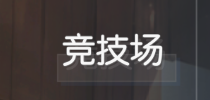
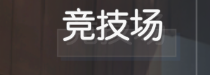
竞技场入口模板躲开活动 EVENT 标；顺带修大厅故事入口的背景
2026-10-15 17:47/17:55 每日任务竞技场 ✗，报「页面[大厅]缺少导航锚点
lobby_arena」。根因：游戏当天给大厅入口挂了蓝色 EVENT 标，正好压在
lobby_arena 模板框的上部（模板内 y 3~21 是标、y 33~63 是字形、y 52~83 是
底纹），分数从 1.0000 掉到 0.7187（阈 0.82）。

改法：lobby_arena.png 由 210x100 重裁为 210x75（全宽，只去掉上部 25 行）。
挂标帧 0.7187 -> 0.9927、lobby_animated_updated 0.8506 -> 0.8483（两个场景
都过阈）、退出弹窗帧 0.2162；全库 248 张过阈 12 -> 14（多出来的正是那两张
挂标帧），无新增误命中。
注意：试过裁成纯字形 (62,28,106,36)，挂标帧能到 0.9995，但会让
lobby_animated_updated 掉到 0.7816 不过阈（该帧被 test_navigation /
test_arena_resume / test_story_resume 多处引用）⇒ 不采用。
「只截文字」不总是最优：还得留下足够的识别结构。

顺带修同类地雷 lobby_story.png：它是 observe() 判大厅的必需锚点（阈 0.80），
却把整片公告板背景框了进去，最差帧只有 0.8152（余量仅 0.015）。重裁为
310x60（去上 50 行背景 + 左 40 列门框）：动画帧 0.8646、shop 帧 0.8803，
全库过阈 12 -> 12（同一批真大厅帧），无新增误命中。

两处裁剪都带动了命中中心，用点击偏移把真机点击点钉回原值：
lobby_story_click_offset (65,11) -> (45,-14) 保持 (1790,326)；
_CLICK_OFFSETS 增补 lobby_arena (0,-12) 保持 (1795,635)。
（模板裁剪只该改识别，不该顺带挪点击位置。）

门槛：python tools/check.py --full，1083 + 938 全绿。

全项目同类排查（含未修项：lobby_battle / lobby_side_story 的常驻 EVENT 标、
novice_arena 的段位字、两个死锚点）见
docs/maintenance/template_dynamic_content_review.md 第七节，
竞技场入口的实测表见 docs/maintenance/arena.md。

Changed region(s): [[0.2571, 0.1067, 0.8857, 0.6667]]

diff --git a/games/epic7/navigation.py b/games/epic7/navigation.py
@@ -465,7 +465,12 @@ def build_navigation_templates(template_root: Path) -> NavigationTemplates:
         ),
         expedition_entry=load_template(str(navigation / "expedition_entry.png")),
         expedition_home=load_template(str(navigation / "expedition_home.png")),
-        lobby_story_click_offset=(65, 11),
+        # 「故事入口」的点击点在命中中心之上加这个偏移。
+        # 2026-10-15：模板从 350x110 裁到 310x60（去掉上部会变的公告板背景 + 左侧门框，
+        # 见 docs/maintenance/template_dynamic_content_review.md 第七节），命中中心随之
+        # 从 (1725,315) 漂到 (1745,340)。这里把偏移由 (65,11) 调成 (45,-14)，
+        # 使**点击点保持原来的 (1790,326) 不动**，改动对真机点击零影响。
+        lobby_story_click_offset=(45, -14),
         lobby_side_story=load_template(str(navigation / "lobby_side_story.png")),
         side_story_special_book=load_template(
             str(navigation / "side_story_special_book.png")
@@ -673,7 +678,10 @@ class Epic7Navigator:
         # ⚠ 同上，**未复验**。
         "web_community": (1540, 180, 400, 160),
     }
-    _CLICK_OFFSETS = {"lobby_story": (65, 11)}
+    # 锚点的点击点相对命中框中心的偏移。
+    # ``lobby_story`` 走 ``templates`` 上那份（见 ``_click_offset``），这里的同名条目只为
+    # 与历史写法一致而留着；``lobby_arena`` 用这里的。
+    _CLICK_OFFSETS = {"lobby_story": (45, -14), "lobby_arena": (0, -12)}
 
     @classmethod
     def _assert_anchor_templates(cls, templates: NavigationTemplates) -> None:

diff --git a/docs/maintenance/template_dynamic_content_review.md b/docs/maintenance/template_dynamic_content_review.md
@@ -210,3 +210,86 @@
 ⇒ **夹具的多样性必须覆盖「那个内容会怎么变」**；只挑"长得像"的样本，焊了动态内容也测不出来。
 本次 A3/A4 能发现，正是因为 `epic7_fodder/team.png` 的按钮写的是 **`8/84`**、
 `labyrinth_stone/team_ready.png` 干脆**没有 pill** —— 样本足够不一样，风险才暴露出来。
+
+---
+
+## 七、2026-10-15：活动挂标 / 底纹类（**与数值类不同的第二个维度**）
+
+由来：2026-10-15 每日任务竞技场 ✗，报 `页面[大厅]缺少导航锚点 lobby_arena`。
+查出来是**游戏给大厅入口挂了蓝色 EVENT 标**（活动期挂、结束撤），标压在模板框的上部
+⇒ `lobby_arena` 从 1.0000 掉到 **0.7187**。
+
+⚠ **这类问题与本文件前六节的「数值类」不是一回事**：前六节问「**数字**变了会不会掉分」，
+这一节问「**游戏会不会往模板框里塞新东西**」（挂标 / 角标 / 底纹变化）。判据都是「会不会变」，
+但**可变内容的来源不同** —— 光扫数值扫不到挂标。
+
+### 排查方法（两条都要走）
+
+1. **静态**：把「入口 / 按钮」类模板放大看，找**框进了按钮本体之外**的（底纹周围的背景、
+   相邻按钮的一角、图标上方的空白）—— 那正是挂标的落点。
+   - 扫「模板里有没有焊 EVENT 蓝条」→ `runtime_logs/_probe_event_badge_scan.py`
+     （⚠ OpenCV 的 H 只到 179，EVENT 蓝的 H 约 **103**，不是 206）
+   - 扫「模板里有没有焊橙色未读角标」→ `runtime_logs/_probe_dot_badge_scan.py`
+2. **动态**：拿**挂了标的那一帧**与**正常帧**对比，看哪些模板掉了分。
+   - `runtime_logs/_probe_lobby_template_volatility.py`（两帧差分 + 全模板分数跌幅）
+   - `runtime_logs/_probe_anchor_fragility.py`（每个判据锚点在全库帧上的最低分）
+   - `runtime_logs/_probe_lobby_lobby_frames.py`（同一页面多帧的分数分布）
+
+⚠ **自动搜索裁剪有致命盲区**：`runtime_logs/_probe_crop_optimizer.py`（枚举去四边的量、
+目标是「让所有目标帧的最低分最大化」）**发现不了常驻的可变内容** —— 如果某条标在**所有**
+样本帧上都在（如 `lobby_battle` 顶部那条），它就不是「样本里的变异源」，搜索根本不会去掉它。
+⇒ **必须是「自动搜索找当前变异源 + 领域知识指出将来会变的」两条腿**。
+
+### 逐条结论
+
+| # | 模板 | 状况 | 结论 |
+| --- | --- | --- | --- |
+| D1 | `navigation/lobby_arena.png` | 框进按钮上方背景，被 EVENT 标压中 | **✅ 已裁** 210×100 → **210×75**（去上 25 行） |
+| D2 | `navigation/lobby_story.png` | 框进整片公告板背景 + 门框；最差帧 0.8152（阈 0.80，**余量仅 0.015**） | **✅ 已裁** 350×110 → **310×60**，并同步调 `lobby_story_click_offset` |
+| D3 | `navigation/lobby_battle.png` | **顶部焊着 EVENT 标**（y 1~24） | **不改**：去掉它会让 `lobby_animated_updated.png` 从 0.8716 掉到 0.7106 |
+| D4 | `navigation/lobby_side_story.png` | **底部焊着 EVENT 标**（y 111~119）；夹具帧只有 0.8372 | **不改**：去掉底部会让夹具帧掉到 0.8200（贴死阈值） |
+| D5 | `navigation/novice_arena.png` | 焊着段位字（见第六节 C1 的遗留项） | **不改**：它是两张候选之一，另一张 `arena_entry.png` 已是纯字形，有兜底 |
+| D6 | `navigation/lobby_hero.png` / `lobby_knights.png` | 正常大厅帧上只有 0.43~0.49 | **不动**：它们是**死锚点**（只在字段/区域表里，`_locate` 从不调用） |
+| D7 | `navigation/lobby_activity.png` | 动画帧 0.2348 | 不改（动画帧是既有的特殊样本，非挂标所致） |
+
+### D1 `lobby_arena.png`
+
+模板内分区（3x 网格图 `runtime_logs/_probe_out/tpl_lobby_arena_grid.png`）：
+**EVENT 标 y 3~21、字形 y 33~63、底纹 y 52~83** ⇒ 上边界取 22 以上就免疫挂标。
+
+| 裁剪 | 挂标帧最低 | 动画帧 |
+| --- | --- | --- |
+| 改前 210×100 | **0.7187** ✗ | 0.8506 |
+| 纯字形 (62,28,106,36) | 0.9995 ✓ | **0.7816 ✗** |
+| **全宽去上部 (0,25,210,75)** | **0.9927 ✓** | **0.8483 ✓** |
+
+⇒ **「只裁文字」并不总是最优**：判据不只是「躲开可变内容」，还有「**留下足够的识别结构**」。
+纯字形在动画帧上丢了太多结构。全宽去上部是两个场景唯一都过阈的一档。
+
+全库 248 张：过阈 12 → 14（多出来的两张正是挂标帧），**无新增误命中**。
+
+### D2 `lobby_story.png`
+
+`lobby_story` 是 `observe()` 判大厅的**必需锚点**（阈值 0.80），所以它比 D1 更要紧。
+
+| 帧 | 原版 350×110 | 裁剪 310×60 |
+| --- | --- | --- |
+| `lobby_animated_updated.png` | **0.8152** | **0.8646** |
+| `lobby_shop_entry.png` | 0.8292 | 0.8803 |
+| 挂标帧 17:55 | 0.8870 | 0.8805 |
+| 其余 8 张大厅帧 | 0.925+ | 0.968+ |
+
+全库 246 张：过阈 **12 → 12（同一批真大厅帧）**，**无新增误命中**。
+
+⚠ **裁剪带动了点击点**（本文件第四节判据 4）：命中中心 (1725,315) → (1745,340)，
+平移 (+20,+25)。已把 `navigation.py` 的 `lobby_story_click_offset` 由 `(65,11)` 调成
+**(45,-14)**，使点击点**保持原来的 (1790,326) 不动**，对真机零影响
+（标注图 `runtime_logs/_probe_out/story_click_points.png`）。
+
+### 还没解决的（留给后续）
+
+- **D3 / D4 的 EVENT 标**：现在能跑，是因为那条标在大厅里**长期都在**（10 张真大厅帧全 0.98+）。
+  一旦游戏活动结束撤标，这两张模板都会掉分。目前无法安全裁掉（原因见上表），
+  只能等真机出现「无标帧」时再补**第二张候选模板**（语义同 `lobby_shop_entry`）。
+- **夹具缺「无 EVENT 标」的大厅帧** —— 现在一张都没有，所以「撤标后会不会掉」根本测不出来
+  （同本文件附节那条教训：**夹具多样性必须覆盖「那个内容会怎么变」**）。

diff --git a/docs/maintenance/arena.md b/docs/maintenance/arena.md
@@ -71,6 +71,36 @@
 - ⚠ **遗留同类隐患（未修）**：旧 `novice_arena.png`（420×230）里仍焊着段位字（如「金牌II」），
   账号一改段位就会出同样的问题（用户已脱离新手期，暂时不触发）。
 
+## 大厅入口锚点：`lobby_arena`（2026-10-15）
+
+大厅右下那颗「竞技场」入口，**按钮上方会被游戏挂一条蓝色 EVENT 标**（活动期挂、结束撤）。
+旧模板 `lobby_arena.png`（210×100）把按钮上方**一片背景**也框了进去，那条标正好压在这片背景上
+⇒ 真机 2026-10-15 17:47 / 17:55 两帧只到 **0.7187 / 0.7212**（阈值 0.82）⇒
+`RuntimeError: 页面[大厅]缺少导航锚点 lobby_arena`，竞技场路线起不来。
+（当天 07:52 同一颗按钮还是 1.0000 —— 说明标是**当天上午之后**才挂上的。）
+
+**改法**：模板改裁 `(0, 25, 210, 75)`（210×75）—— **全宽保留、只去掉上部 25 行**。
+模板内分区实测（3x 网格图读数）：**EVENT 标 y 3~21、字形 y 33~63、底纹 y 52~83**。
+
+| 帧 | 改前 210×100 | 改后 210×75 |
+| --- | --- | --- |
+| 今天 17:47（挂标） | **0.7187** | **0.9927** |
+| 今天 17:55（挂标） | 0.7212 | 0.9945 |
+| 正常大厅夹具 | 1.0000 | 1.0000 |
+| `lobby_animated_updated.png` | 0.8506 | 0.8483 |
+| 退出确认弹窗 | 不过阈 | 0.2162 |
+| 其余 10 张大厅帧 | 0.957~1.0000 | 0.955~1.0000 |
+
+全库 **248 张**：过阈 **12 → 14**（多出来的正是那两张挂标帧），**无新增误命中**。
+
+⚠ **不要裁成「只有字形」**：试过 `(62,28,106,36)` 的纯字形 —— 挂标帧能到 0.9995，
+但会让 `lobby_animated_updated.png`（底纹更淡；`test_navigation.py` 等多处引用它、
+并要求 `observe()` 判 lobby）从 0.8506 掉到 **0.7816 不过阈**。全宽去上部是唯一
+「挂标帧 + 动画帧」都过阈的一档（各候选实测见 `runtime_logs/_probe_arena_crop_candidates.py`）。
+
+- **点击点**：`lobby_arena` 没有 `_CLICK_OFFSETS`，点击点 = 命中框中心，
+  由 (1795,635) 变到 (1795,647)（下移 12.5px），仍在按钮底纹内（底纹约屏幕 y 637~668）。
+
 ## 每局战绩（胜 / 负 / 未知）
 
 用户看到的「战绩：胜 2 / 负 1」来自 `games/epic7/arena.py`：
